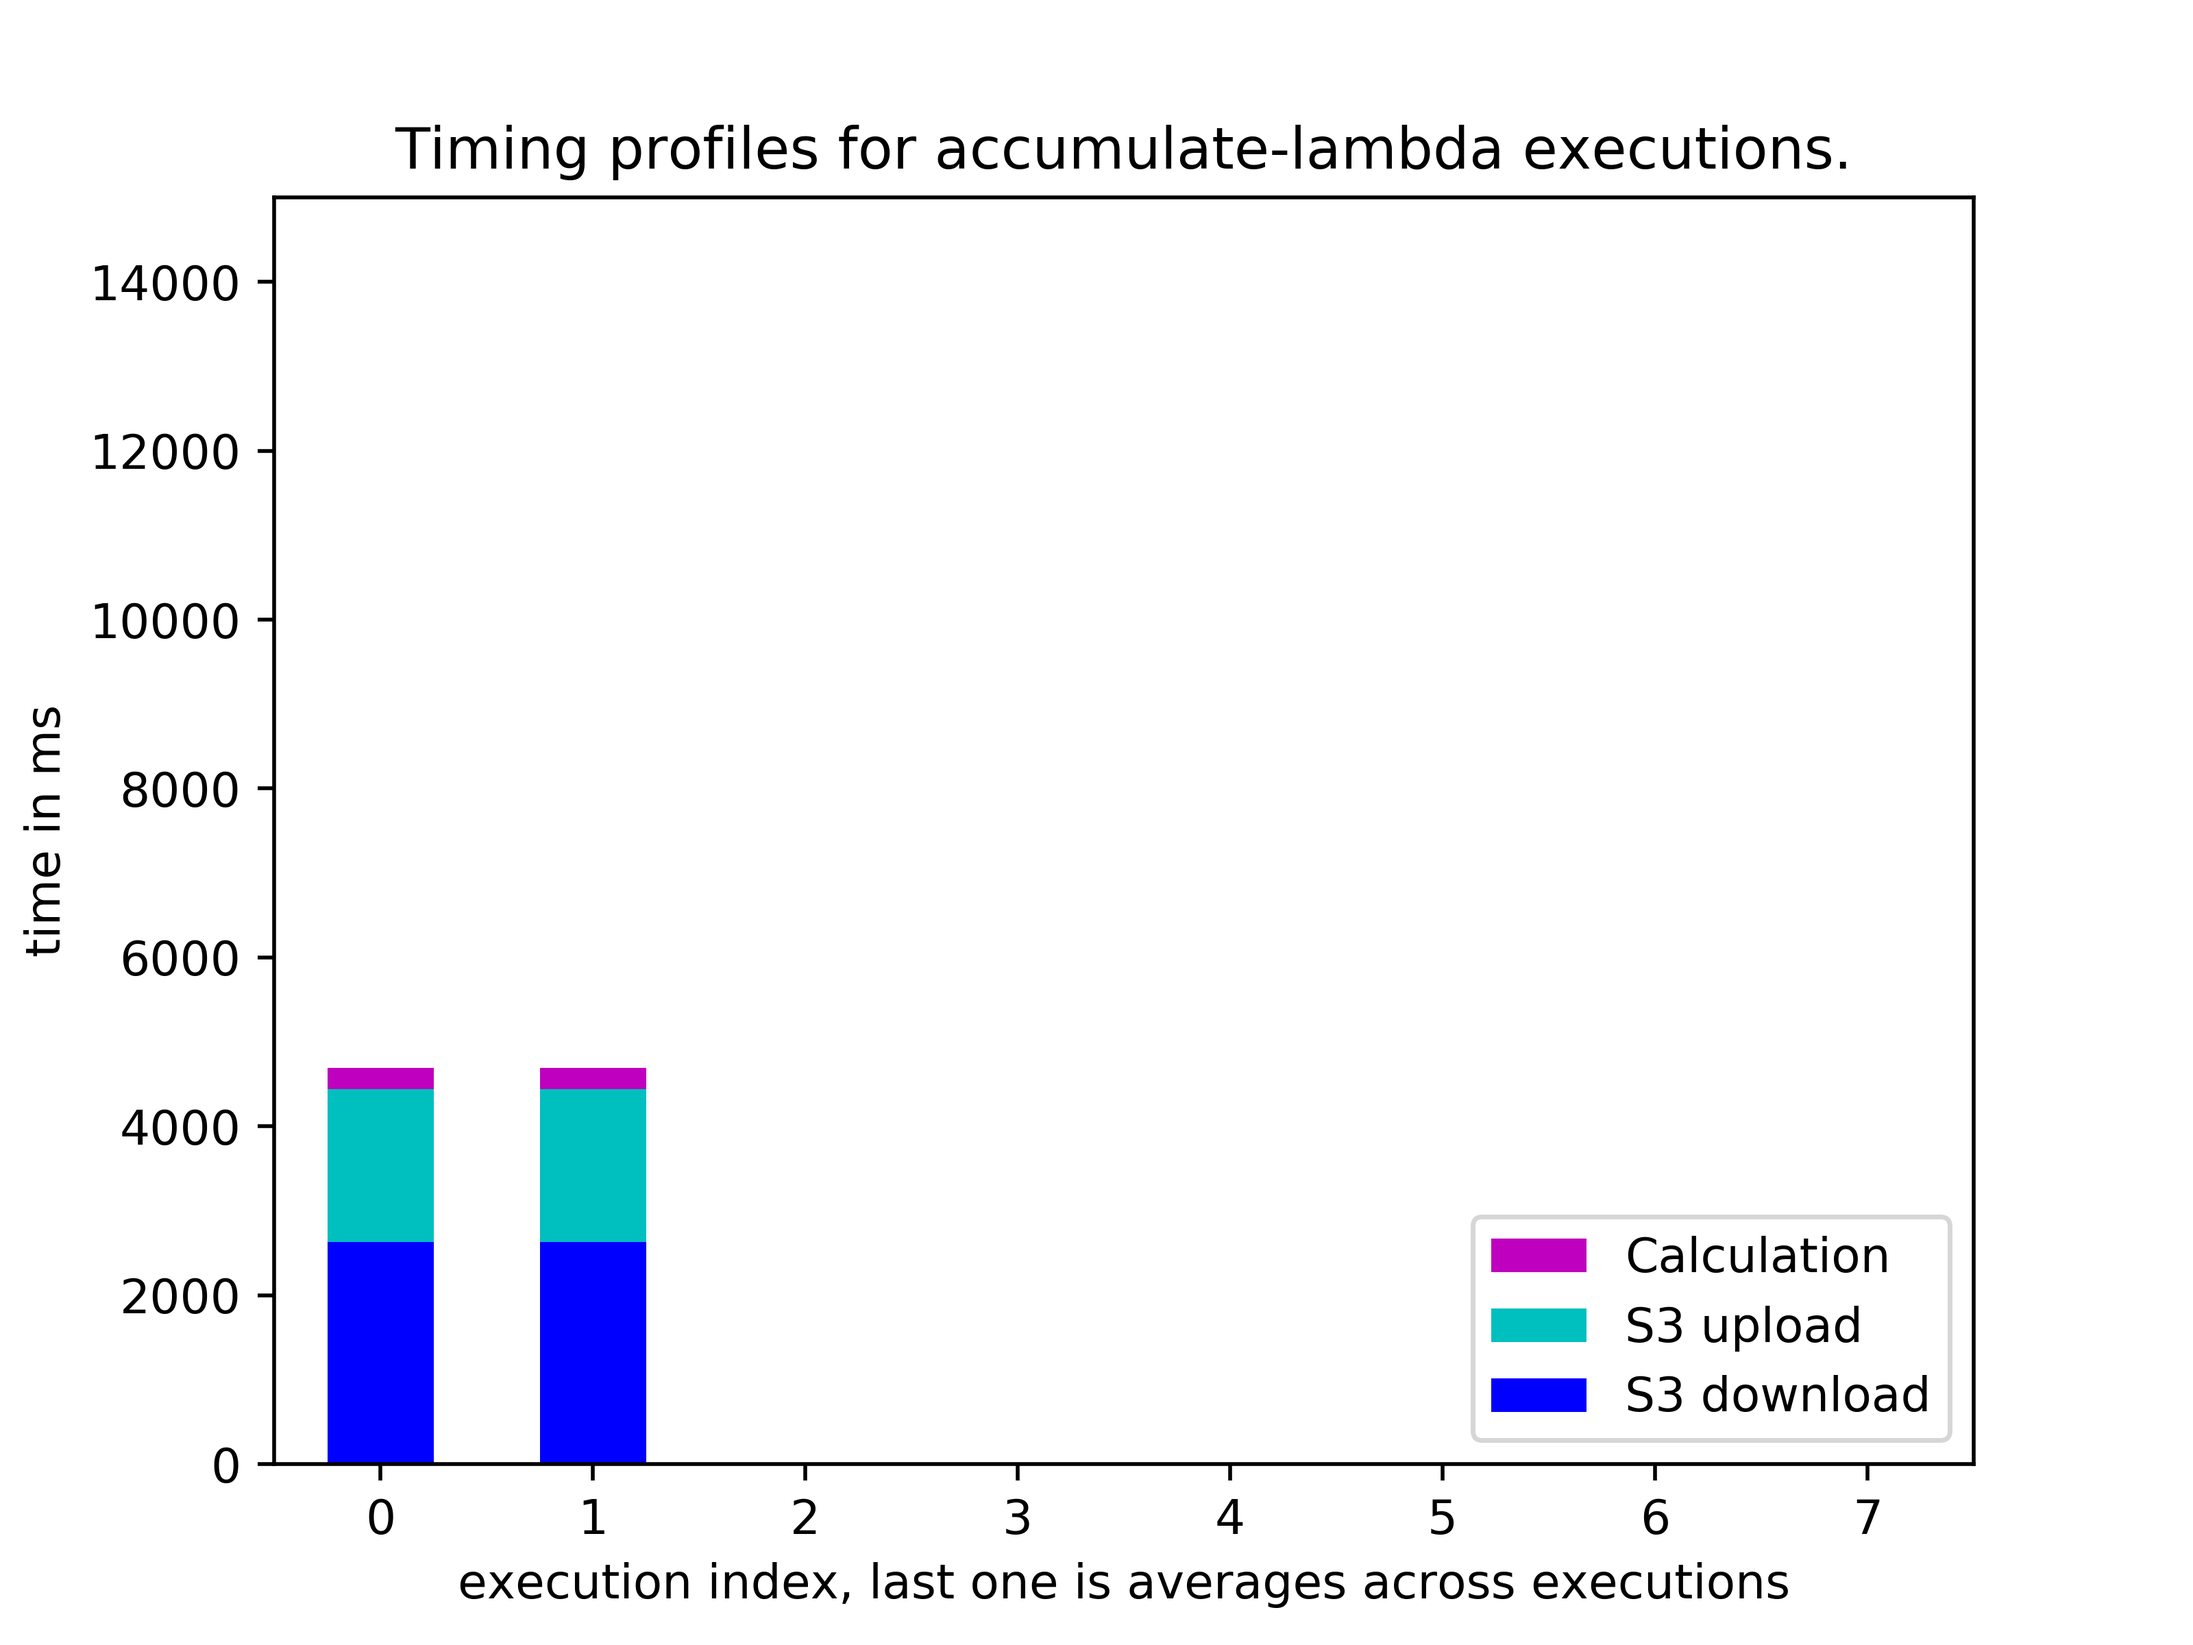
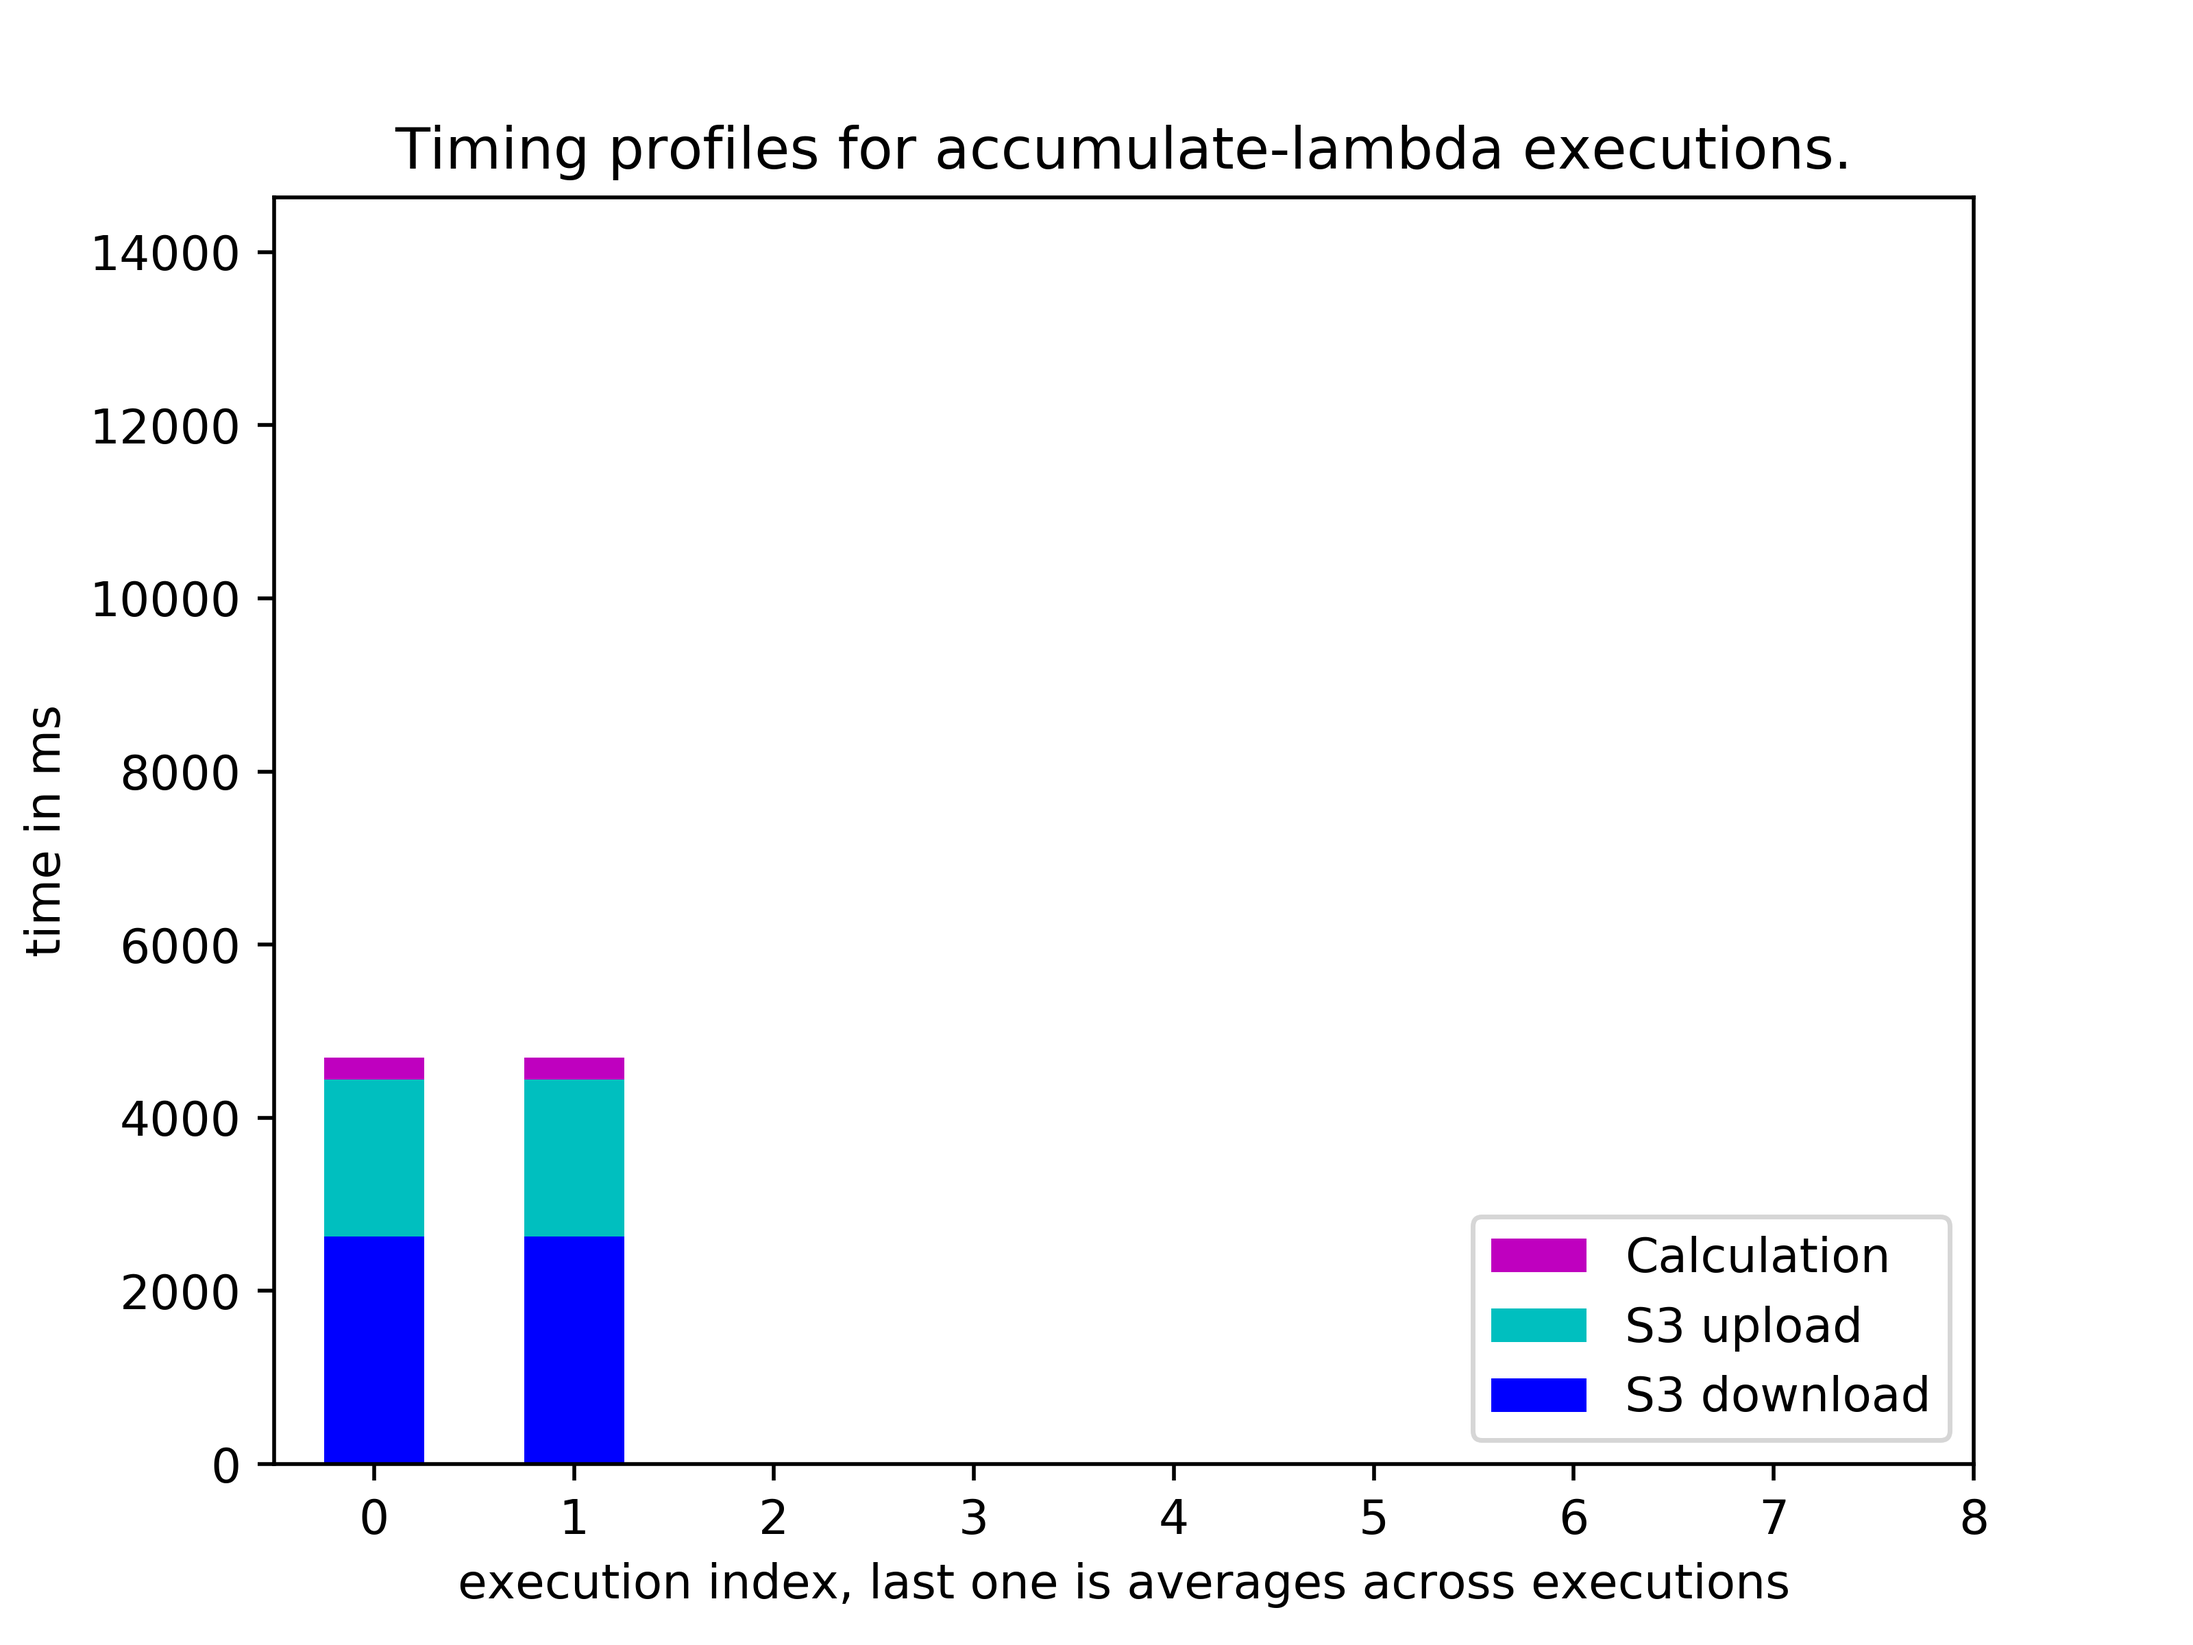
x and y bounds are set for equal scaling

diff --git a/benchmarks/time_profiling.py b/benchmarks/time_profiling.py
@@ -214,15 +214,23 @@ def save_raw_data(time_profiles_by_lambda, csv_path):
 
 
 def create_plots_per_lambda(csv_path, state_machine_name, to_file=True):
-    for lambda_type in ['intermediate', 'collect', 'accumulate']:
-        lambda_timings = load_timings(csv_path, lambda_type)
-        plot_time_profile(with_average(lambda_timings), lambda_type, state_machine_name, os.path.dirname(csv_path), to_file)
-        plot_time_distribution(lambda_timings, lambda_type, state_machine_name, os.path.dirname(csv_path), to_file)
+    xbound, ybound = find_bounds(csv_path)
+    for l_type in ['intermediate', 'collect', 'accumulate']:
+        lambda_timings = load_timings(csv_path, l_type)
+        plot_time_profile(with_average(lambda_timings), l_type, state_machine_name, os.path.dirname(csv_path), to_file, ybound=ybound, xbound=xbound)
+        plot_time_distribution(lambda_timings, l_type, state_machine_name, os.path.dirname(csv_path), to_file)
 
 def create_combined_plots(csv_path, state_machine_name, to_file=True):
+    xbound, ybound = find_bounds(csv_path)
     combined_timings = load_timings(csv_path)
-    plot_time_profile(combined_timings, 'combined', state_machine_name, os.path.dirname(csv_path), to_file)
+    plot_time_profile(combined_timings, 'combined', state_machine_name, os.path.dirname(csv_path), to_file, ybound=ybound)
     plot_time_distribution(combined_timings, 'combined', state_machine_name, os.path.dirname(csv_path), to_file)
+
+def find_bounds(csv_path):
+    xbound = len(load_timings(csv_path, 'intermediate').down) + 1 # number of entries for intermediates
+    timings = load_timings(csv_path)
+    ybound = max(timings.down + timings.up + timings.calculation) * 1.1
+    return (xbound, ybound)
 
 def load_timings(csv_path, lambda_type=None):
     with open(csv_path, 'r') as f:
@@ -242,7 +250,7 @@ def with_average(timings):
     calculation = np.append(timings.calculation, np.average(timings.calculation))
     return Timings(down, up, calculation)
 
-def plot_time_profile(timings, lambda_type, state_machine_name, plot_dir=None, to_file=True):
+def plot_time_profile(timings, lambda_type, state_machine_name, plot_dir=None, to_file=True, ybound=None, xbound=None):
     _log('Creating plot {} profile {}'.format(state_machine_name, lambda_type))
 
     N = len(timings.down)
@@ -255,8 +263,10 @@ def plot_time_profile(timings, lambda_type, state_machine_name, plot_dir=None, t
     p2 = plt.bar(index, timings.up, width, color='c', bottom=timings.down)
     p3 = plt.bar(index, timings.calculation, width, color='m', bottom=np.add(timings.down,timings.up))
 
-    ax.set_ybound(0, 15000) # take the max value of execution plus 100
-    ax.set_xbound(-0.5, 7.5) # number of intermediate lambdas?
+    if ybound is not None:
+        ax.set_ybound(0, ybound)
+    if xbound is not None:
+        ax.set_xbound(-0.5, xbound) # number of intermediate lambdas?
 
     ax.set_ylabel('time in ms')
     ax.set_xlabel('execution index, last one is averages across executions')
